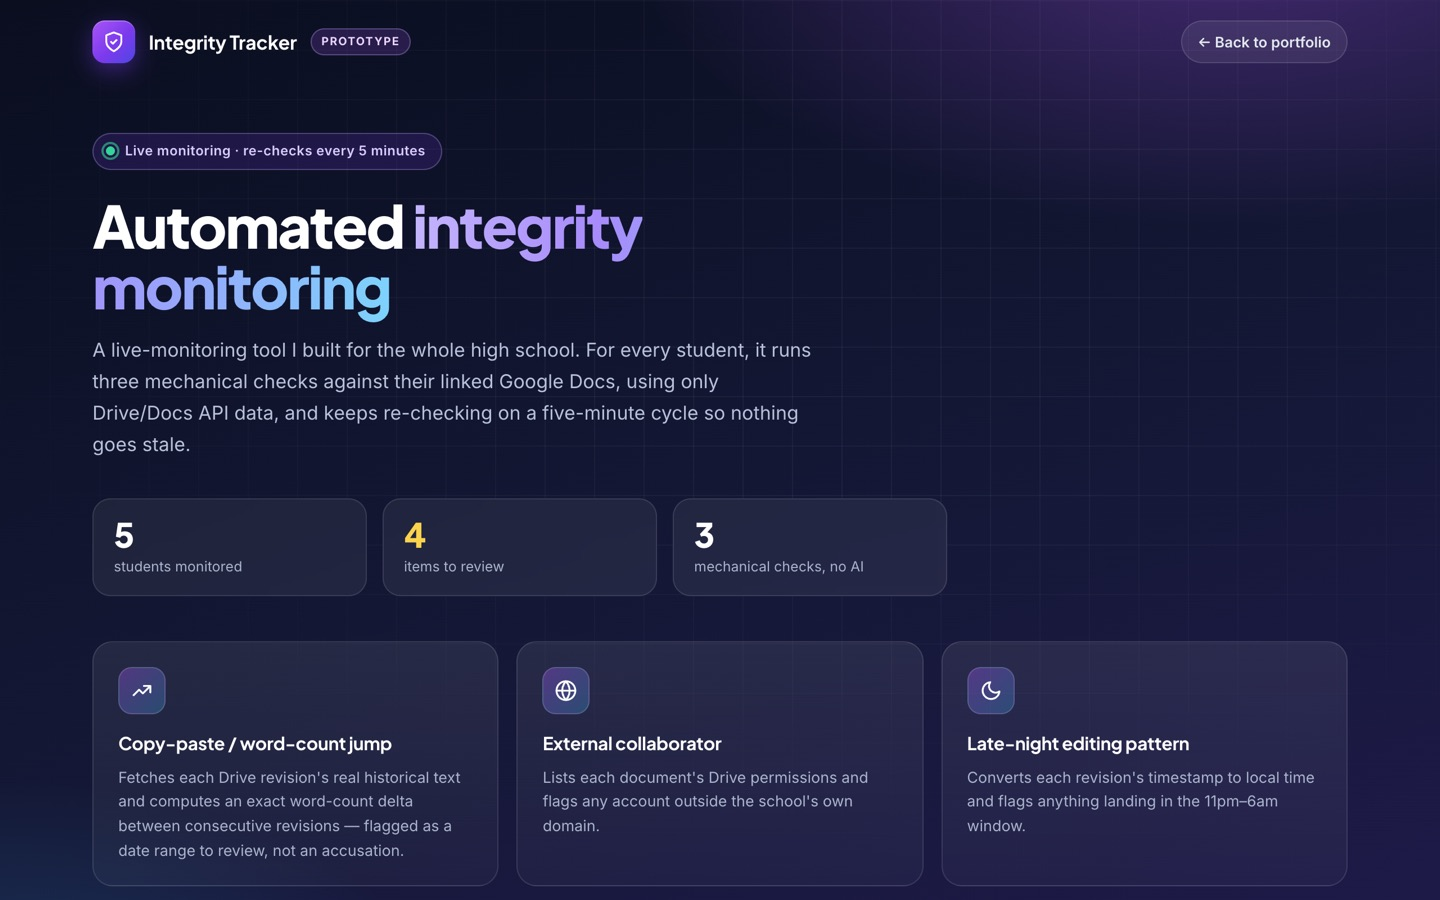
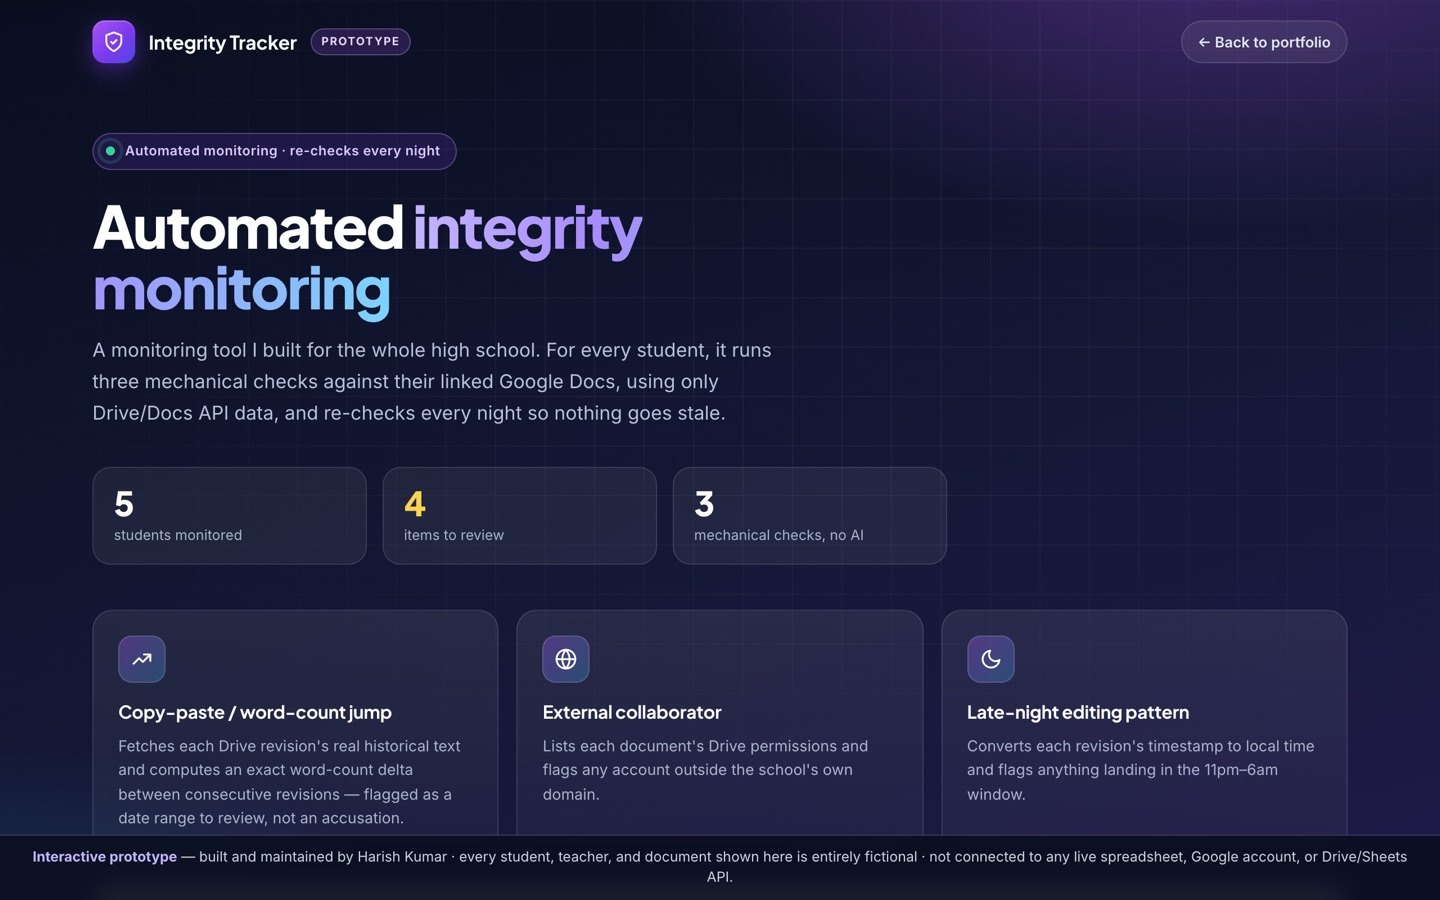
Describe the Integrity Tracker as a nightly check

diff --git a/ia-integrity-tracker/index.html b/ia-integrity-tracker/index.html
@@ -381,9 +381,9 @@ tbody tr:hover { background: #fbfaff; }
     </div>
 
     <div class="hero">
-      <span class="live-pill rise d1"><span class="pulse" aria-hidden="true"></span>Live monitoring · re-checks every 5 minutes</span>
+      <span class="live-pill rise d1"><span class="pulse" aria-hidden="true"></span>Automated monitoring · re-checks every night</span>
       <h2 class="rise d2">Automated <span class="grad-text">integrity monitoring</span></h2>
-      <p class="rise d3">A live-monitoring tool I built for the whole high school. For every student, it runs three mechanical checks against their linked Google Docs, using only Drive/Docs API data, and keeps re-checking on a five-minute cycle so nothing goes stale.</p>
+      <p class="rise d3">A monitoring tool I built for the whole high school. For every student, it runs three mechanical checks against their linked Google Docs, using only Drive/Docs API data, and re-checks every night so nothing goes stale.</p>
     </div>
 
     <div class="stats rise d4" aria-live="polite">
@@ -454,7 +454,7 @@ tbody tr:hover { background: #fbfaff; }
   </section>
 
   <div class="tech-footer">
-    <p><span class="k">Real implementation:</span> Google Sheets API · Google Drive API · Google Apps Script (5-minute trigger, batched with checkpointing to survive Apps Script's execution-time cap) · Python reference implementation · retry-with-backoff throughout, since individual Drive revision fetches turned out to be flaky enough in practice to need it.</p>
+    <p><span class="k">Real implementation:</span> Google Sheets API · Google Drive API · Google Apps Script (nightly trigger, batched with checkpointing to survive Apps Script's execution-time cap) · Python reference implementation · retry-with-backoff throughout, since individual Drive revision fetches turned out to be flaky enough in practice to need it.</p>
   </div>
 </main>
 

diff --git a/projects.md b/projects.md
@@ -36,7 +36,7 @@ title: Digital Innovation Projects
   <div class="fc-body">
     <span class="fc-eyebrow">Production Tool · For All Teachers</span>
     <h3>Integrity Tracker</h3>
-    <p>A live-monitoring tool I built and run for the whole high school — three mechanical, deliberately non-AI checks (per-revision word-count changes, outside-domain collaborators, and late-night editing patterns) that flag items for contextual teacher review, running on an always-on five-minute cycle. This is an interactive prototype seeded entirely with fictional students and documents so the real interface can be explored safely.</p>
+    <p>A monitoring tool I built and run for the whole high school — three mechanical, deliberately non-AI checks (per-revision word-count changes, outside-domain collaborators, and late-night editing patterns) that flag items for contextual teacher review, running automatically every night. This is an interactive prototype seeded entirely with fictional students and documents so the real interface can be explored safely.</p>
     <a href="{{ '/ia-integrity-tracker/' | relative_url }}" target="_blank" rel="noopener" class="fc-cta">Open Integrity Tracker →</a>
   </div>
 </div>
